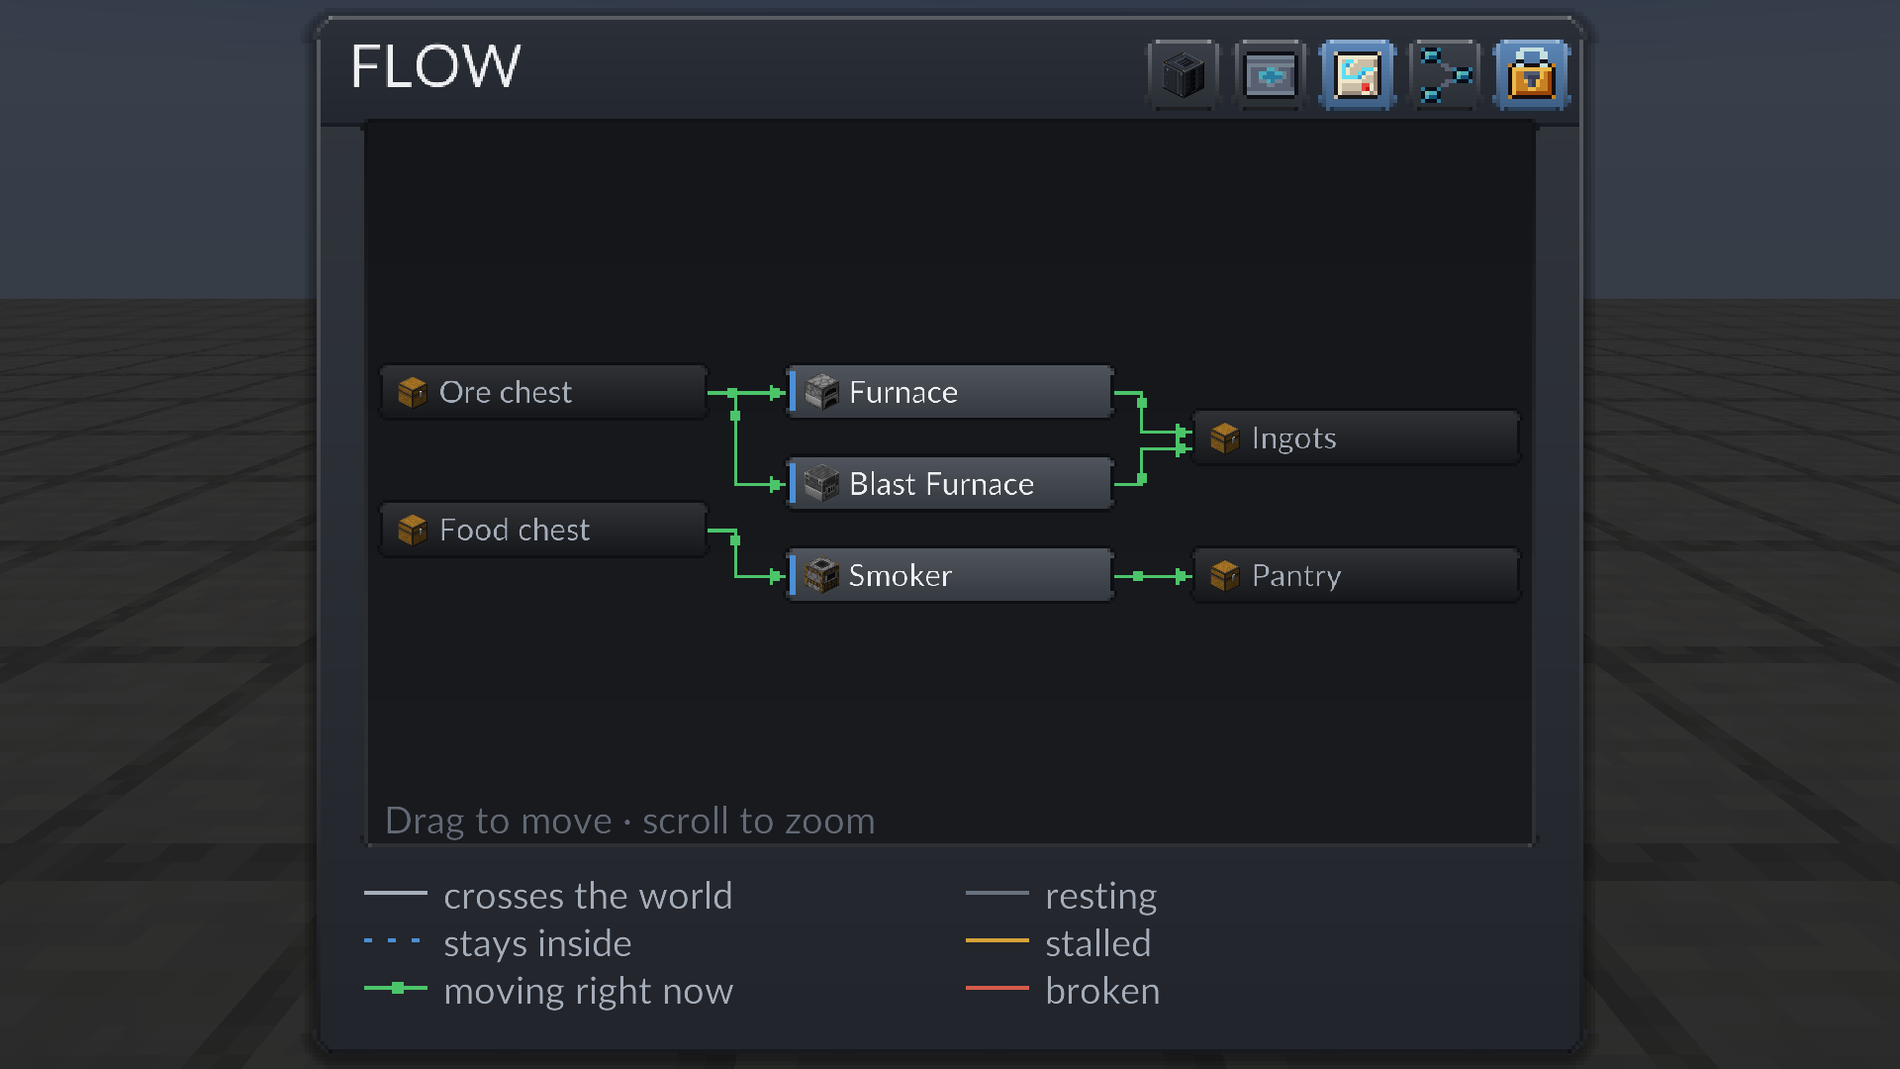
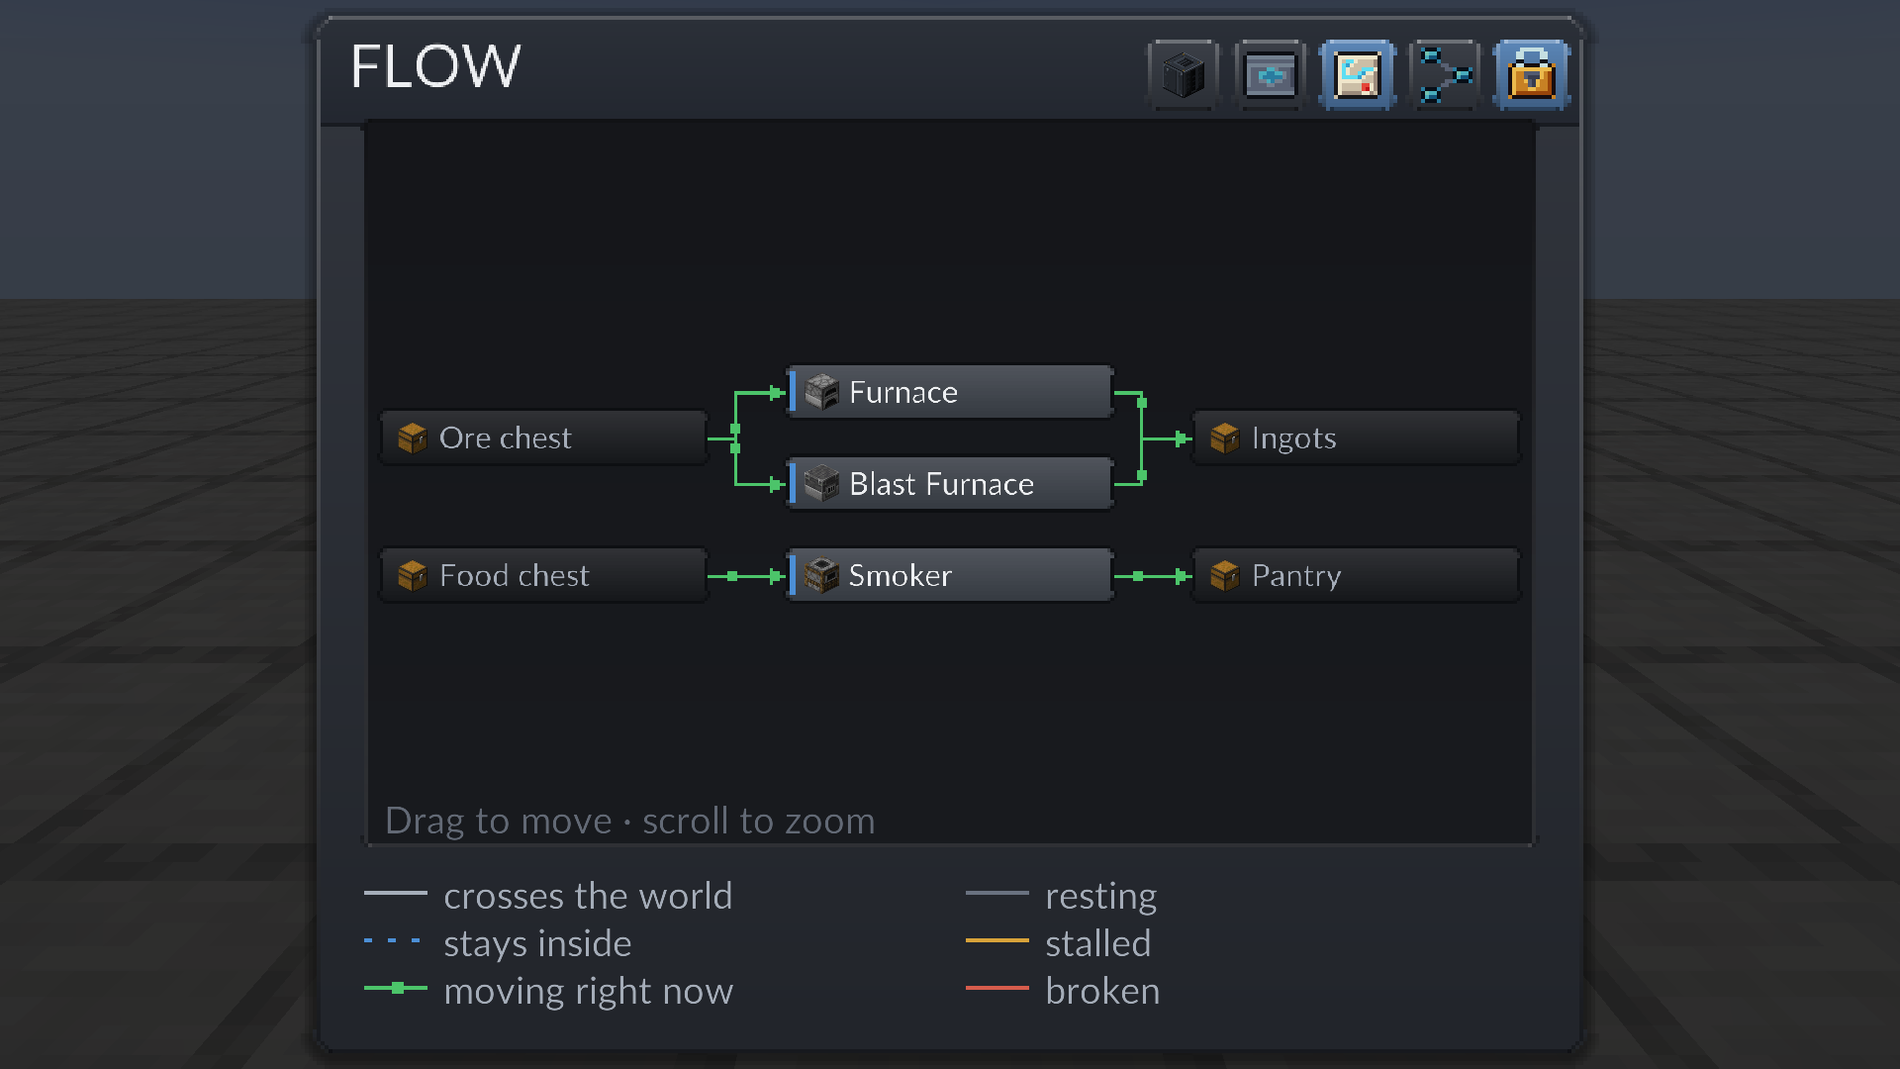
FLOW joins arrows into a box and stands a chest level with the machine it feeds
Two furnaces feeding one ingot chest drew two arrowheads five pixels apart, where the fork out of the ore chest has always been one line. Arrivals of one resource, and one side of the block wall, now share a port: one trunk, one head, the most urgent colour drawn last. The Food chest also stood 14 pixels above the Smoker it feeds. Separation only ever pushed boxes down, so a furnace pair asking for one spot slid the whole cluster 14 pixels a pass and anything tied to it lagged a pass behind; a block of boxes pushed together now stands where its members asked for on average. Both are gametests, each watched red on the old code, and the gallery's FLOW still is re-shot with both.

diff --git a/src/main/java/com/neryos/workbay/client/screen/FlowLayout.java b/src/main/java/com/neryos/workbay/client/screen/FlowLayout.java
@@ -97,6 +97,14 @@ final class FlowLayout {
      * level boxes get straight parallel lanes and each arrow is its own line end to end.
      */
     private final java.util.IdentityHashMap<int[], Integer> departures = new java.util.IdentityHashMap<>();
+    /**
+     * The caller's kind of each edge's last segment, where it meets the box it points at. Arrivals of
+     * one kind from different boxes share a port, and so a last leg and one head: two furnaces
+     * feeding one ingot chest drew two arrowheads a few pixels apart, where the fan out of a box
+     * has always been one fork. The owner's ask, the mirror of Sander's shared run on the way out.
+     * A reversed edge's last segment is its tail, so it never joins.
+     */
+    private final java.util.IdentityHashMap<int[], Integer> joins = new java.util.IdentityHashMap<>();
 
     /** One vertical run: everything leaving one box into one channel, and where it branches to. */
     private static final class Run {
@@ -136,8 +144,9 @@ final class FlowLayout {
     /**
      * @param count how many real boxes there are
      * @param wires one {@code {from, to}} per edge, in the caller's own order
+     * @param kinds one per edge: edges of one kind into one box join before it
      */
-    FlowLayout(int count, List<int[]> wires, int nodeW) {
+    FlowLayout(int count, List<int[]> wires, List<Integer> kinds, int nodeW) {
         this.nodeW = nodeW;
         this.nodeX = new int[count];
         this.nodeY = new int[count];
@@ -214,12 +223,16 @@ final class FlowLayout {
         // The same array instances the ports are keyed on, kept per chain so phase 5 can ask which
         // port this edge in particular lands on rather than where its target box happens to be.
         List<int[][]> chainSegments = new ArrayList<>();
-        for (int[] chain : chains) {
+        for (int e = 0; e < chains.size(); e++) {
+            int[] chain = chains.get(e);
             int[][] mine = new int[Math.max(0, chain.length - 1)][];
             for (int i = 0; i + 1 < chain.length; i++) {
                 int[] seg = {chain[i], chain[i + 1]};
                 segments.get(vertexLayer[chain[i]]).add(seg);
                 mine[i] = seg;
+            }
+            if (mine.length > 0 && !flipped[e]) {
+                joins.put(mine[mine.length - 1], kinds.get(e));
             }
             chainSegments.add(mine);
         }
@@ -384,7 +397,11 @@ final class FlowLayout {
 
     // ------------------------------------------------------------------------------- phase 4
 
-    /** Rows, then passes pulling each vertex to the median of what it joins, then separated. */
+    /**
+     * Rows, then passes pulling each vertex to the median of what it joins, then separated
+     * ({@link #spread}), until nothing moves. Capped, in case two boxes pulling across a separation
+     * trade a pixel forever.
+     */
     private void place(List<List<int[]>> segments, int layerCount) {
         for (List<Integer> here : layers) {
             int at = 0;
@@ -393,7 +410,9 @@ final class FlowLayout {
                 at += size[v] + ROW_GAP;
             }
         }
-        for (int pass = 0; pass < 4; pass++) {
+        int[] before = new int[vy.length];
+        for (int pass = 0; pass < 64 && (pass == 0 || !Arrays.equals(before, vy)); pass++) {
+            System.arraycopy(vy, 0, before, 0, vy.length);
             for (int l = 0; l < layerCount; l++) {
                 for (int v : layers.get(l)) {
                     List<Integer> joined = new ArrayList<>();
@@ -430,11 +449,47 @@ final class FlowLayout {
         }
     }
 
+    /**
+     * Separates one layer's boxes, keeping their order. Boxes that overlap become one block, and a
+     * block stands where its members <em>asked</em> to be on average, not wherever pushing down
+     * left it. Pushing only down made the map drift: a furnace and a blast furnace asking for one
+     * spot were stacked below it, the chests they share re-centred on the pair, the pair followed,
+     * and the whole cluster slid 14 pixels a pass while anything tied to it lagged a pass behind -
+     * the gallery's Food chest stood 14 above the Smoker it feeds. Merging adjacent blocks until
+     * none overlap is the pool-adjacent-violators rule, and it settles.
+     */
     private void spread(List<Integer> here) {
-        for (int i = 1; i < here.size(); i++) {
-            int least = vy[here.get(i - 1)] + size[here.get(i - 1)] + ROW_GAP;
-            if (vy[here.get(i)] < least) {
-                vy[here.get(i)] = least;
+        int[] wanted = new int[here.size()];
+        for (int i = 0; i < here.size(); i++) {
+            wanted[i] = vy[here.get(i)];
+        }
+        // {first, last, top}, and each member's offset from the block's top.
+        List<int[]> blocks = new ArrayList<>();
+        int[] offset = new int[here.size()];
+        for (int i = 0; i < here.size(); i++) {
+            blocks.add(new int[] {i, i, wanted[i]});
+            while (blocks.size() > 1) {
+                int[] above = blocks.get(blocks.size() - 2);
+                int[] below = blocks.get(blocks.size() - 1);
+                int aboveEnd = above[2] + offset[above[1]] + size[here.get(above[1])] + ROW_GAP;
+                if (aboveEnd <= below[2]) {
+                    break;
+                }
+                long sum = 0;
+                int at = 0;
+                for (int m = above[0]; m <= below[1]; m++) {
+                    offset[m] = at;
+                    sum += wanted[m] - at;
+                    at += size[here.get(m)] + ROW_GAP;
+                }
+                int top = (int) Math.round(sum / (double) (below[1] - above[0] + 1));
+                blocks.remove(blocks.size() - 1);
+                blocks.set(blocks.size() - 1, new int[] {above[0], below[1], top});
+            }
+        }
+        for (int[] block : blocks) {
+            for (int m = block[0]; m <= block[1]; m++) {
+                vy[here.get(m)] = block[2] + offset[m];
             }
         }
     }
@@ -451,13 +506,13 @@ final class FlowLayout {
     }
 
     /**
-     * A port per edge on the side it arrives at, so the last leg of every edge is a line of its own
-     * and carries its own colour for {@link #CLEAN_RUN} pixels. Only the arriving side: everything
-     * <em>leaving</em> a box shares one vertical run on purpose (Sander's hyperedge, and a fork
-     * reads as a fork), so a box that fans out still fans out from one point.
+     * A port per <em>kind</em> on the side it arrives at: arrivals of one kind share one, and so one
+     * last leg and one head, while a second kind keeps a line of its own and its own colour for
+     * {@link #CLEAN_RUN} pixels. Everything <em>leaving</em> a box shares one vertical run (Sander's
+     * hyperedge, and a fork reads as a fork); arrivals of a kind now join the same way.
      *
-     * <p>Ordered by where each edge comes from, so the fan into a box does not cross itself, and
-     * spread from the middle outwards inside the box's own side. A box with more arrivals than fit
+     * <p>Ordered by where each bundle comes from, so the fan into a box does not cross itself, and
+     * spread from the middle outwards inside the box's own side. A box with more bundles than fit
      * shrinks the pitch to nothing and lands them all on the middle, which is where they were.
      * Dummies carry one chain each and keep their centre.
      */
@@ -475,11 +530,21 @@ final class FlowLayout {
                 here.forEach(seg -> ports.put(seg, middle));
                 continue;
             }
-            here.sort(Comparator.comparingInt(seg -> anchor(seg[0])));
-            int pitch = Math.min(PORT_PITCH, (NODE_H - 2 * PORT_INSET) / (here.size() - 1));
-            int first = middle - pitch * (here.size() - 1) / 2;
-            for (int i = 0; i < here.size(); i++) {
-                ports.put(here.get(i), first + i * pitch);
+            // A segment with no kind is a bundle of one, keyed on itself (an array's identity).
+            java.util.Map<Object, List<int[]>> bundles = new java.util.LinkedHashMap<>();
+            for (int[] seg : here) {
+                Integer kind = joins.get(seg);
+                bundles.computeIfAbsent(kind == null ? seg : kind, k -> new ArrayList<>()).add(seg);
+            }
+            List<List<int[]>> ordered = new ArrayList<>(bundles.values());
+            ordered.sort(Comparator.comparingDouble(bundle ->
+                bundle.stream().mapToInt(seg -> anchor(seg[0])).average().orElse(0)));
+            int pitch = ordered.size() == 1 ? 0
+                : Math.min(PORT_PITCH, (NODE_H - 2 * PORT_INSET) / (ordered.size() - 1));
+            int first = middle - pitch * (ordered.size() - 1) / 2;
+            for (int i = 0; i < ordered.size(); i++) {
+                int port = first + i * pitch;
+                ordered.get(i).forEach(seg -> ports.put(seg, port));
             }
             // Parallel edges: the same source twice or more. Each leaves at its arrival's offset.
             java.util.Map<Integer, Integer> perSource = new java.util.HashMap<>();
@@ -580,12 +645,17 @@ final class FlowLayout {
     /**
      * What it costs to put {@code left} left of {@code right}: one per conflict - two horizontals
      * at the same height, which would overlap in the gap between the two verticals - and sixteen
-     * per crossing, a horizontal that ends inside the other run's vertical span.
+     * per crossing, a horizontal that ends inside the other run's vertical span. An end both runs
+     * share is a join, not a clash: two runs meeting at one port cost nothing and take one slot,
+     * one straight line through the port.
      */
     private static int cost(Run left, Run right) {
         int conflicts = 0;
         int crossings = 0;
         for (int end : left.ends) {
+            if (Arrays.binarySearch(right.ends, end) >= 0) {
+                continue;
+            }
             if (Math.abs(end - right.start) < CONFLICT_THRESHOLD) {
                 conflicts++;
             }

diff --git a/src/gametest/java/com/neryos/workbay/gametests/FlowLayoutTests.java b/src/gametest/java/com/neryos/workbay/gametests/FlowLayoutTests.java
@@ -1,0 +1,103 @@
+package com.neryos.workbay.gametests;
+
+import java.util.List;
+import net.minecraft.gametest.framework.GameTest;
+import net.neoforged.testframework.DynamicTest;
+import net.neoforged.testframework.annotation.ForEachTest;
+import net.neoforged.testframework.annotation.TestHolder;
+import net.neoforged.testframework.gametest.ExtendedGameTestHelper;
+import net.neoforged.testframework.gametest.StructureTemplateBuilder;
+
+/**
+ * FLOW's layout, which is plain arithmetic with no Minecraft in it, reached by reflection because it
+ * is package-private in the client screens. The map is drawn on a client; this proves the routes.
+ */
+@ForEachTest(groups = "flow")
+public class FlowLayoutTests {
+
+    @GameTest
+    @TestHolder(description = "Two furnaces feeding one ingot chest enter it through one arrowhead;"
+        + " a second resource keeps its own.")
+    public static void twoFurnacesIntoOneChestDrawOneArrowhead(final DynamicTest test) {
+        test.registerGameTestTemplate(() -> StructureTemplateBuilder.withSize(1, 1, 1));
+
+        test.onGameTest(ExtendedGameTestHelper.class, helper -> {
+            // Boxes 0 and 1 are the furnaces, 2 the chest; 3 feeds both furnaces, so the furnaces
+            // sit one above the other with the chest's middle between them, as on the gallery map.
+            List<int[]> wires = List.of(new int[] {3, 0}, new int[] {3, 1},
+                new int[] {0, 2}, new int[] {1, 2});
+            int[][] joined = heads(4, wires, List.of(0, 0, 0, 0));
+            helper.assertTrue(joined[2][0] == joined[3][0] && joined[2][1] == joined[3][1],
+                "one kind into one box: the two heads should be one point, were "
+                    + joined[2][0] + "," + joined[2][1] + " and " + joined[3][0] + "," + joined[3][1]);
+            // The positive control: a second kind into the same box keeps a port of its own.
+            int[][] apart = heads(4, wires, List.of(0, 0, 0, 2));
+            helper.assertTrue(apart[2][1] != apart[3][1],
+                "two kinds into one box should keep two ports, both were at y " + apart[2][1]);
+            helper.succeed();
+        });
+    }
+
+    @GameTest
+    @TestHolder(description = "A chest feeding a single machine stands level with it, even when"
+        + " the machine is pushed down by the boxes above it.")
+    public static void aChestFeedingOneMachineStandsLevelWithIt(final DynamicTest test) {
+        test.registerGameTestTemplate(() -> StructureTemplateBuilder.withSize(1, 1, 1));
+
+        test.onGameTest(ExtendedGameTestHelper.class, helper -> {
+            // The gallery network, boxes in FlowPage's order: the three bays, then the chests as
+            // their links name them. Furnace 0, Blast Furnace 1, Smoker 2, Ore chest 3, Ingots 4,
+            // Food chest 5, Pantry 6. The Smoker is pushed below the Blast Furnace; the Food chest
+            // chased it and stopped halfway, so its arrow had a step in it.
+            List<int[]> wires = List.of(new int[] {3, 0}, new int[] {3, 1}, new int[] {0, 4},
+                new int[] {1, 4}, new int[] {5, 2}, new int[] {2, 6});
+            int[] y = rows(7, wires, List.of(0, 0, 0, 0, 0, 0));
+            helper.assertTrue(y[5] == y[2] && y[2] == y[6], "Food chest, Smoker and Pantry should"
+                + " stand on one row, were at " + y[5] + ", " + y[2] + " and " + y[6]);
+            helper.succeed();
+        });
+    }
+
+    /** Each box's top. */
+    private static int[] rows(int count, List<int[]> wires, List<Integer> kinds) {
+        try {
+            Object layout = layout(count, wires, kinds);
+            var field = layout.getClass().getDeclaredField("nodeY");
+            field.setAccessible(true);
+            return (int[]) field.get(layout);
+        } catch (ReflectiveOperationException e) {
+            throw new IllegalStateException("FlowLayout's shape changed; update this test", e);
+        }
+    }
+
+    private static Object layout(int count, List<int[]> wires, List<Integer> kinds)
+        throws ReflectiveOperationException {
+        Class<?> type = Class.forName("com.neryos.workbay.client.screen.FlowLayout");
+        var make = type.getDeclaredConstructor(int.class, List.class, List.class, int.class);
+        make.setAccessible(true);
+        return make.newInstance(count, wires, kinds, 100);
+    }
+
+    /** Each edge's last point, {x, y}. */
+    private static int[][] heads(int count, List<int[]> wires, List<Integer> kinds) {
+        try {
+            Object layout = layout(count, wires, kinds);
+            Class<?> type = layout.getClass();
+            var xsField = type.getDeclaredField("edgeXs");
+            var ysField = type.getDeclaredField("edgeYs");
+            xsField.setAccessible(true);
+            ysField.setAccessible(true);
+            @SuppressWarnings("unchecked") List<int[]> xs = (List<int[]>) xsField.get(layout);
+            @SuppressWarnings("unchecked") List<int[]> ys = (List<int[]>) ysField.get(layout);
+            int[][] out = new int[wires.size()][];
+            for (int e = 0; e < wires.size(); e++) {
+                int[] x = xs.get(e);
+                int[] y = ys.get(e);
+                out[e] = new int[] {x[x.length - 1], y[y.length - 1]};
+            }
+            return out;
+        } catch (ReflectiveOperationException e) {
+            throw new IllegalStateException("FlowLayout's shape changed; update this test", e);
+        }
+    }
+}

diff --git a/src/main/java/com/neryos/workbay/client/screen/FlowPage.java b/src/main/java/com/neryos/workbay/client/screen/FlowPage.java
@@ -92,6 +92,7 @@ class FlowPage extends WorkbayPage {
         List<List<Component>> tips = new ArrayList<>();
         List<int[]> wires = new ArrayList<>();
         List<int[]> style = new ArrayList<>();
+        List<Integer> kinds = new ArrayList<>();
 
         for (WorkbaySnapshot.Bay bay : snap.bays()) {
             if (bay.hosted().isPresent()) {
@@ -146,6 +147,9 @@ class FlowPage extends WorkbayPage {
                 wireOf.put(wire, wires.size());
                 wires.add(ends);
                 style.add(look);
+                // What may join another wire into the same box: the same resource, and the same
+                // side of the block wall, since a dashed bay link and a solid one are two facts.
+                kinds.add(link.config().resource().ordinal() * 2 + (internal ? 1 : 0));
             } else {
                 int[] kept = style.get(seen);
                 if (urgency(look[0]) > urgency(kept[0])) {
@@ -168,7 +172,7 @@ class FlowPage extends WorkbayPage {
         int widest = labels.stream().mapToInt(l -> Draw.width(screen.font(), l.getString()))
             .max().orElse(0);
         this.nodeW = Math.clamp(widest + 24, n > 12 ? 84 : NODE_W, 140);
-        FlowLayout layout = new FlowLayout(n, wires, nodeW);
+        FlowLayout layout = new FlowLayout(n, wires, kinds, nodeW);
         for (int i = 0; i < n; i++) {
             nodes.add(new Node(labels.get(i), icons.get(i), isBay.get(i), tips.get(i),
                 layout.nodeX[i], layout.nodeY[i]));
@@ -177,6 +181,9 @@ class FlowPage extends WorkbayPage {
             edges.add(new Edge(layout.edgeXs.get(i), layout.edgeYs.get(i), style.get(i)[0],
                 style.get(i)[1], style.get(i)[2] == 1));
         }
+        // Wires joined into one box share their last leg and head, and whichever is drawn last owns
+        // its colour: the most urgent goes last, as it does when links merge into one wire.
+        edges.sort(java.util.Comparator.comparingInt(edge -> urgency(edge.colour())));
         this.graphW = layout.width;
         this.graphH = layout.height;
 
@@ -270,6 +277,12 @@ class FlowPage extends WorkbayPage {
         g.pose().translate(panX, panY, 0);
         for (Edge edge : edges) {
             route(g, edge);
+        }
+        // Pips after every line, or a joined leg drawn later would paint over them.
+        for (Edge edge : edges) {
+            if (edge.running()) {
+                travel(g, edge.xs(), edge.ys());
+            }
         }
         for (Node node : nodes) {
             node(g, node);
@@ -416,9 +429,6 @@ class FlowPage extends WorkbayPage {
         if (last > 0) {
             head(g, xs[last], ys[last], Integer.signum(xs[last] - xs[last - 1]),
                 Integer.signum(ys[last] - ys[last - 1]), edge.colour());
-        }
-        if (edge.running()) {
-            travel(g, xs, ys);
         }
     }
 

diff --git a/docs/wiki/Connectors-and-FLOW.md b/docs/wiki/Connectors-and-FLOW.md
@@ -46,7 +46,7 @@ A network holds at most 64 links.
 
 ![The FLOW map: an ore chest feeding a furnace and a blast furnace, a food chest feeding a smoker, pips walking on every arrow](https://raw.githubusercontent.com/neryosx/workbay/master/docs/media/04-flow-map.png)
 
-FLOW draws every link that has a machine on both ends: a box per endpoint, one arrow per pair of boxes, resource and direction; three links from one chest into one furnace are one arrow. Drag to move, scroll to zoom. A link parked off its bay, or pointing at an empty bay, is not on the map - the LINKS list is where those live.
+FLOW draws every link that has a machine on both ends: a box per endpoint, one arrow per pair of boxes, resource and direction; three links from one chest into one furnace are one arrow, and arrows of one resource from different boxes join before the box they enter. Drag to move, scroll to zoom. A link parked off its bay, or pointing at an empty bay, is not on the map - the LINKS list is where those live.
 
 The example above reads left to right - an ore chest feeds a Furnace and a Blast Furnace, both feed an ingot chest, and a food chest feeds a Smoker that fills a pantry. The ore chest reaches the Furnace through three links, one per ore, drawn as one arrow; the food chest reaches the Smoker through two.
 

diff --git a/CHANGELOG.md b/CHANGELOG.md
@@ -14,8 +14,8 @@ Minecraft 1.21.1, NeoForge 21.1.249 or newer, Java 21, no dependencies. Worlds f
   emptied Workbay at the network limit; **no server line cut short** on a screen.
 - **A Connector has one name everywhere**: the block it stands on, not its coordinates, with its
   place in front when two stand on the same kind of block. Racking and ejecting have subtitles.
-- **FLOW** stays in view through a zoom, draws one arrow for links that share both ends, a type
-  and a direction, and its pips walk instead of racing.
+- **FLOW** stays in view through a zoom, draws one arrow for links sharing both ends, a type and a
+  direction, joins arrows of one type into a box, keeps its boxes level, and its pips walk.
 - **JEI and EMI keep out of Workbay screens** unless a filter slot is open to drag into.
 - **An update notice** on the Mods screen, and **one line of thanks** on your first join ever;
   `greeting = false` silences it. The server config is `config/workbay-server.toml`.
